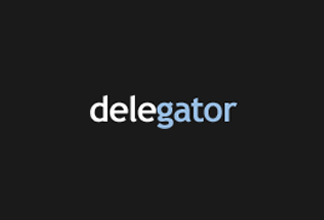
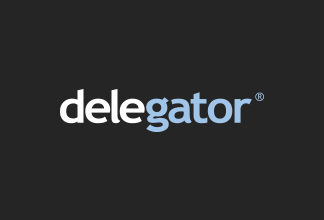
Updates
updated campus photo, updated delegator. added causeway and
smartfurniture

Changed region(s): [[0.1852, 0.4091, 0.8333, 0.6]]

diff --git a/index.html b/index.html
@@ -36,24 +36,32 @@
 	</div>
 	<div class="startups content">
 		<div class="wrapper cf">
+				<!--<a href="http://ambition.io" class="startups-entry">
+					<img src="img/startups/ambition.png" title="Ambition" alt="Are you ambitious?">
+					<h2>Ambition</h2>
+				</a>-->
 				<a href="http://banyan.co" class="startups-entry">
 					<img src="img/startups/banyan.png" title="Banyan" alt="Github for Scientists">
 					<h2>Banyan</h2>
 				</a>
 				<a href="http://campusbellhops.com" class="startups-entry">
-					<img src="img/startups/campus.png" title="Campus Bellhops" alt="Student Muscle for moving day">
+					<img src="img/startups/campus.png" title="Campus Bellhops" alt="Student muscle for moving day">
 					<h2>Campus Bellhops</h2>
 				</a>
-				<!--<a href="http://delegator.com/" class="startups-entry">
+				<a href="http://causeway.org/" class="startups-entry">
+					<img src="img/startups/causeway.png" title="Causeway" alt="Where there's a cause, there's a way">
+					<h2>Causeway</h2>
+				</a>
+				<a href="http://delegator.com/" class="startups-entry">
 					<img src="img/startups/delegator.png" title="Delegator" alt="Get it done">
 					<h2>Delegator</h2>
-				</a>-->
+				</a>
 				<a href="http://fancyrhino.com" class="startups-entry">
-					<img src="img/startups/fancy.png" title="Fancy Rhino" alt="Thumbnail for Illustrations Portfolio entry">
+					<img src="img/startups/fancy.png" title="Fancy Rhino" alt="Be fancy, your story is worth it">
 					<h2>Fancy Rhino</h2>
 				</a>
 				<a href="http://getfireplug.com/" class="startups-entry">
-					<img src="img/startups/fireplug.png" title="Fireplug" alt="Be Fancy, your story is worth it">
+					<img src="img/startups/fireplug.png" title="Fireplug" alt="Bringing you the news you care about">
 					<h2>Fireplug</h2>
 				</a>
 				<a href="http://keencitizen.com/" class="startups-entry">
@@ -75,6 +83,10 @@
 				<a href="http://quickcue.com/" class="startups-entry">
 					<img src="img/startups/quickque.png" title="Quickcue" alt="The smarter way to host your guests">
 					<h2>Quickcue</h2>
+				</a>
+				<a href="http://smartfurniture.com/" class="startups-entry">
+					<img src="img/startups/smart.png" title="Smart Furniture" alt="Design on demand">
+					<h2>Smart Furniture</h2>
 				</a>
 				<a href="http://southtree.com/" class="startups-entry">
 					<img src="img/startups/southtree.png" title="Southtree" alt="Everyone has a legacy">
